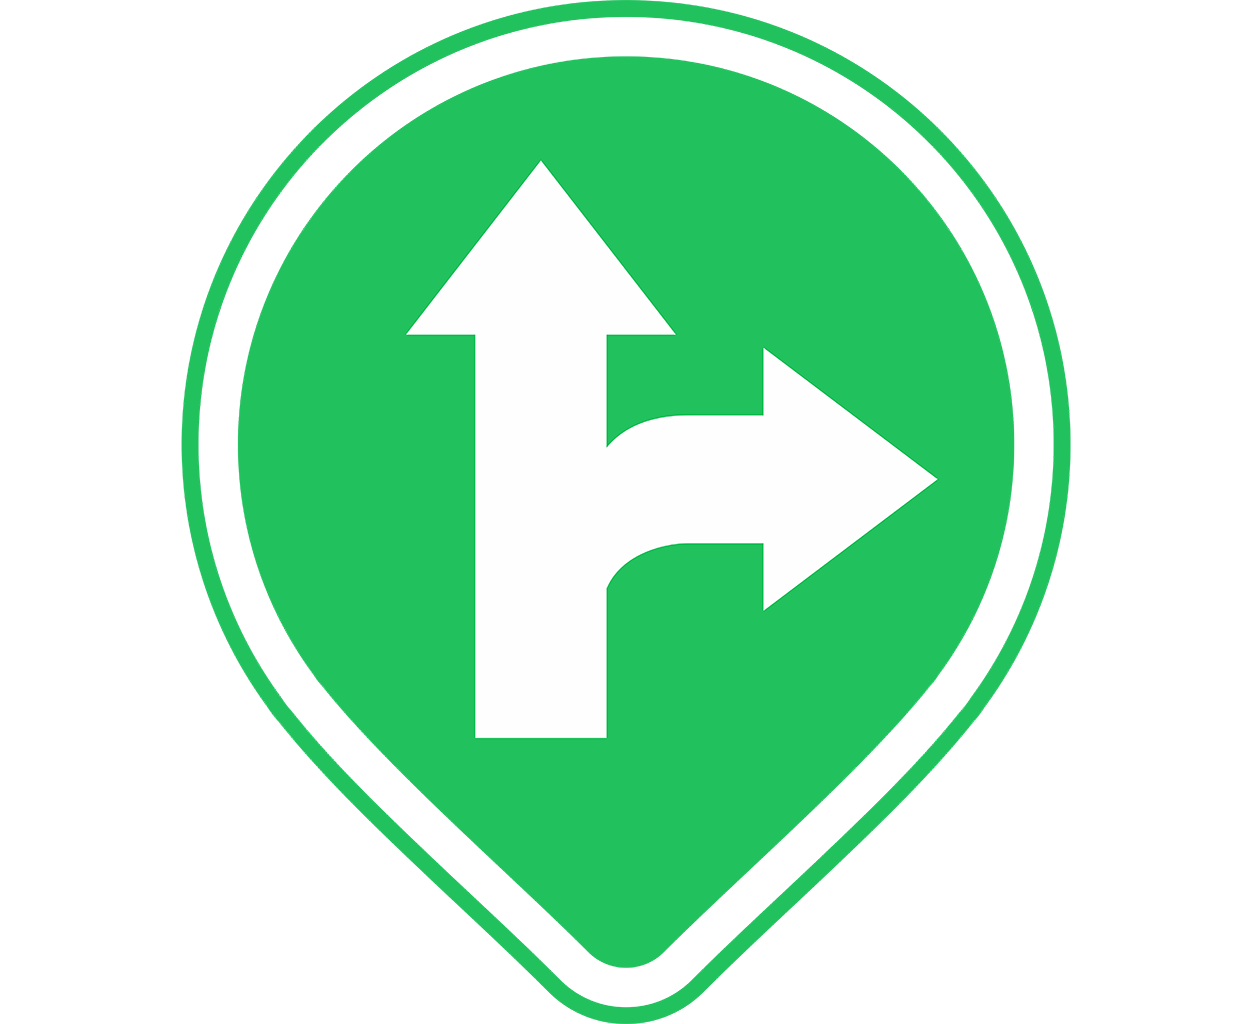
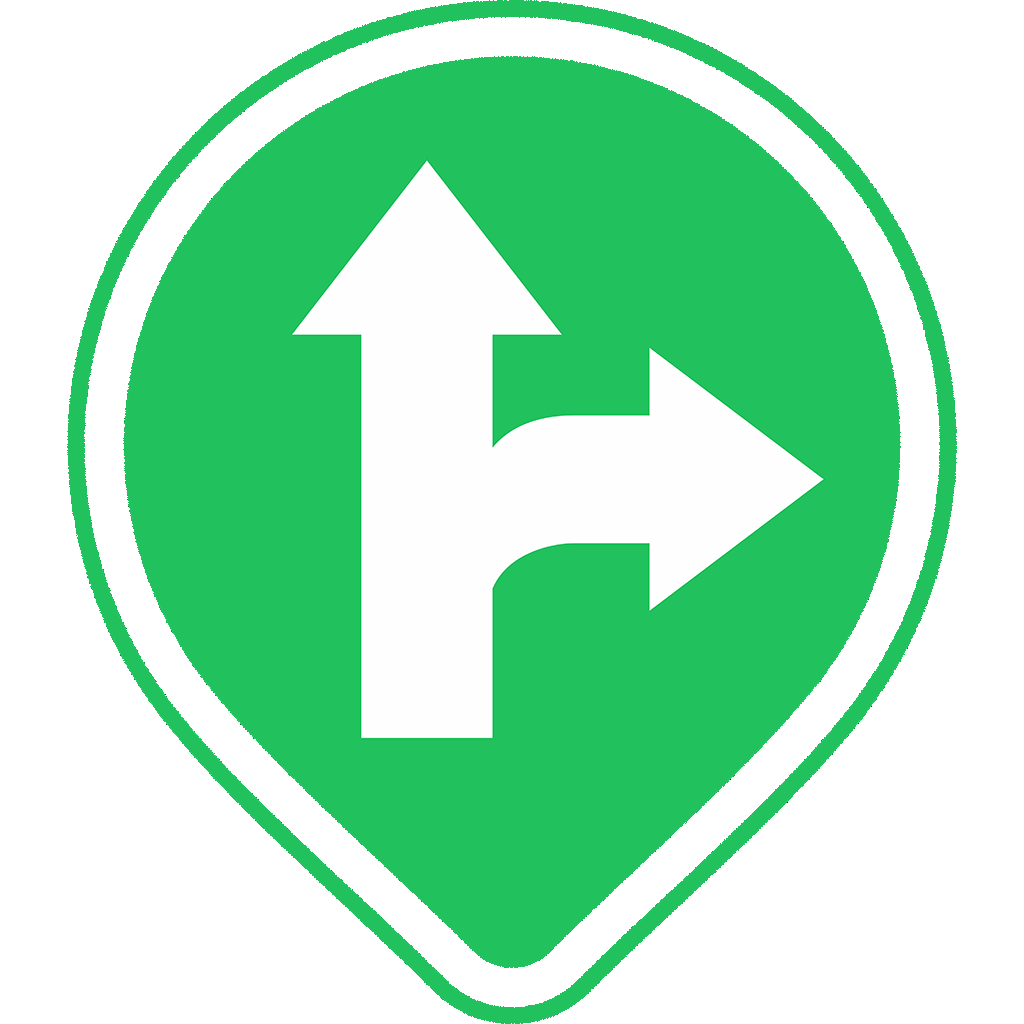
+ recriação de recursos

diff --git a/src/app/community/community.page.ts b/src/app/community/community.page.ts
@@ -14,7 +14,15 @@ export class CommunityPage implements OnInit {
   constructor(private contactsApi: Contacts) { }
 
   ngOnInit() {
-    this.contactsApi.find(['displayName', 'phoneNumbers', 'photos'], { hasPhoneNumber: true, multiple: true }).then((contacts) => this.contacts = contacts);
+    this.contactsApi.find(['displayName', 'phoneNumbers', 'photos'], 
+          { hasPhoneNumber: true, multiple: true })
+      .then((contacts) => { 
+        this.contacts = contacts
+      });
+  }
+
+  public segmentChanged(ev: any) {
+    console.log(ev);
   }
 
 }

diff --git a/src/app/community/community.page.html b/src/app/community/community.page.html
@@ -11,10 +11,10 @@
 
     <ion-segment (ionChange)="segmentChanged($event)">
         <ion-segment-button value="users">
-            <ion-label>Estradeiros</ion-label>
+            <ion-label>Mensagens</ion-label>
         </ion-segment-button>
         <ion-segment-button value="all">
-            <ion-label>Todos</ion-label>
+            <ion-label>Contatos</ion-label>
         </ion-segment-button>
     </ion-segment>
 
